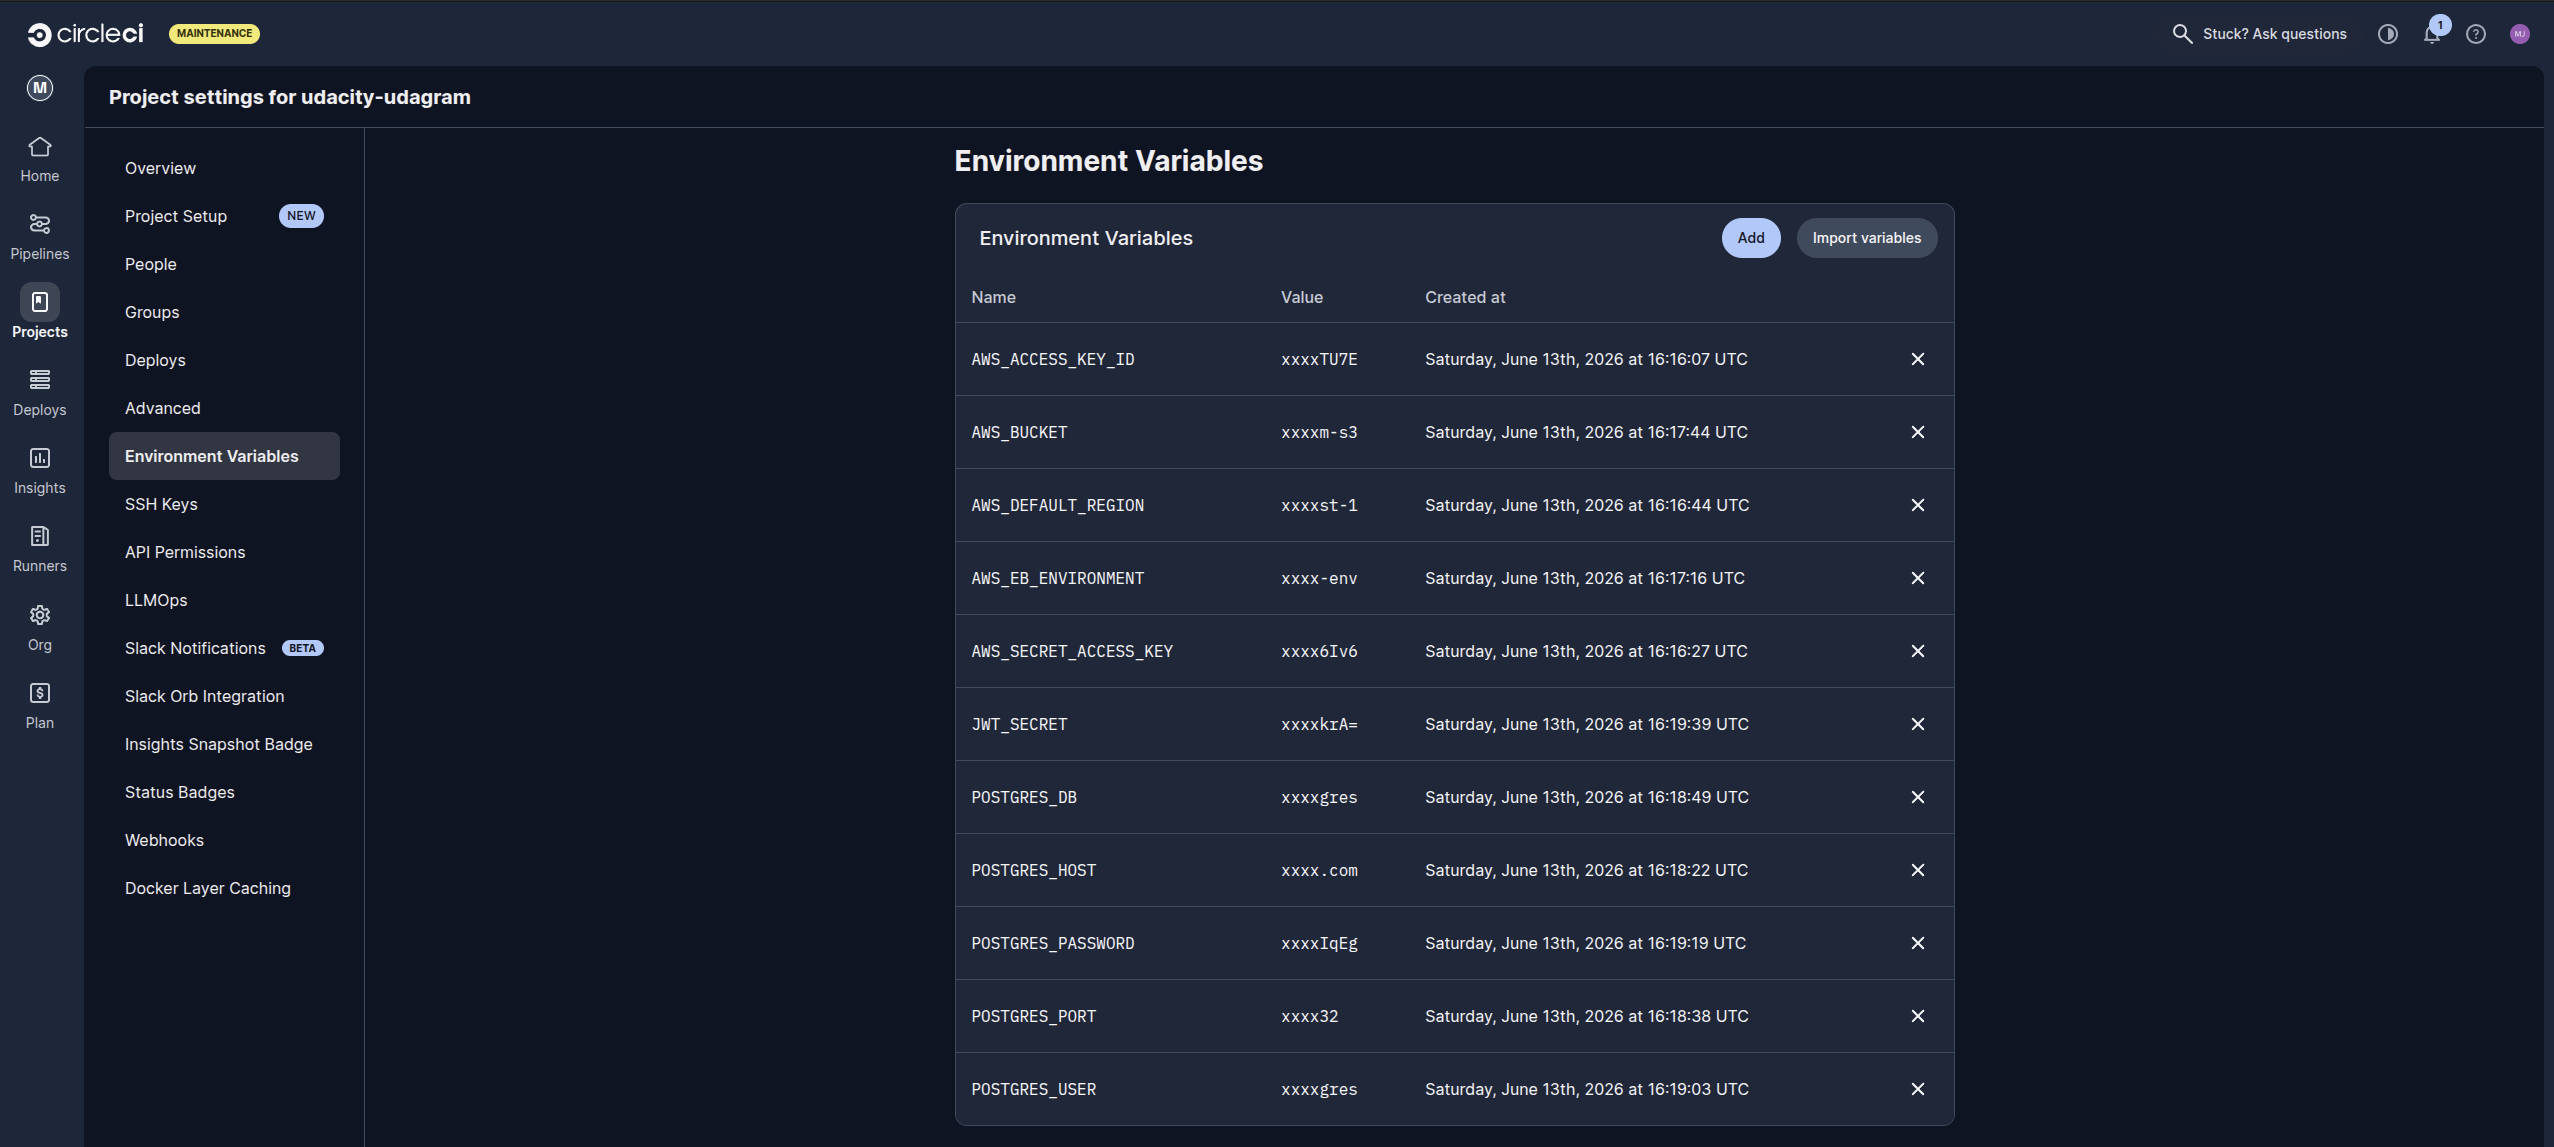
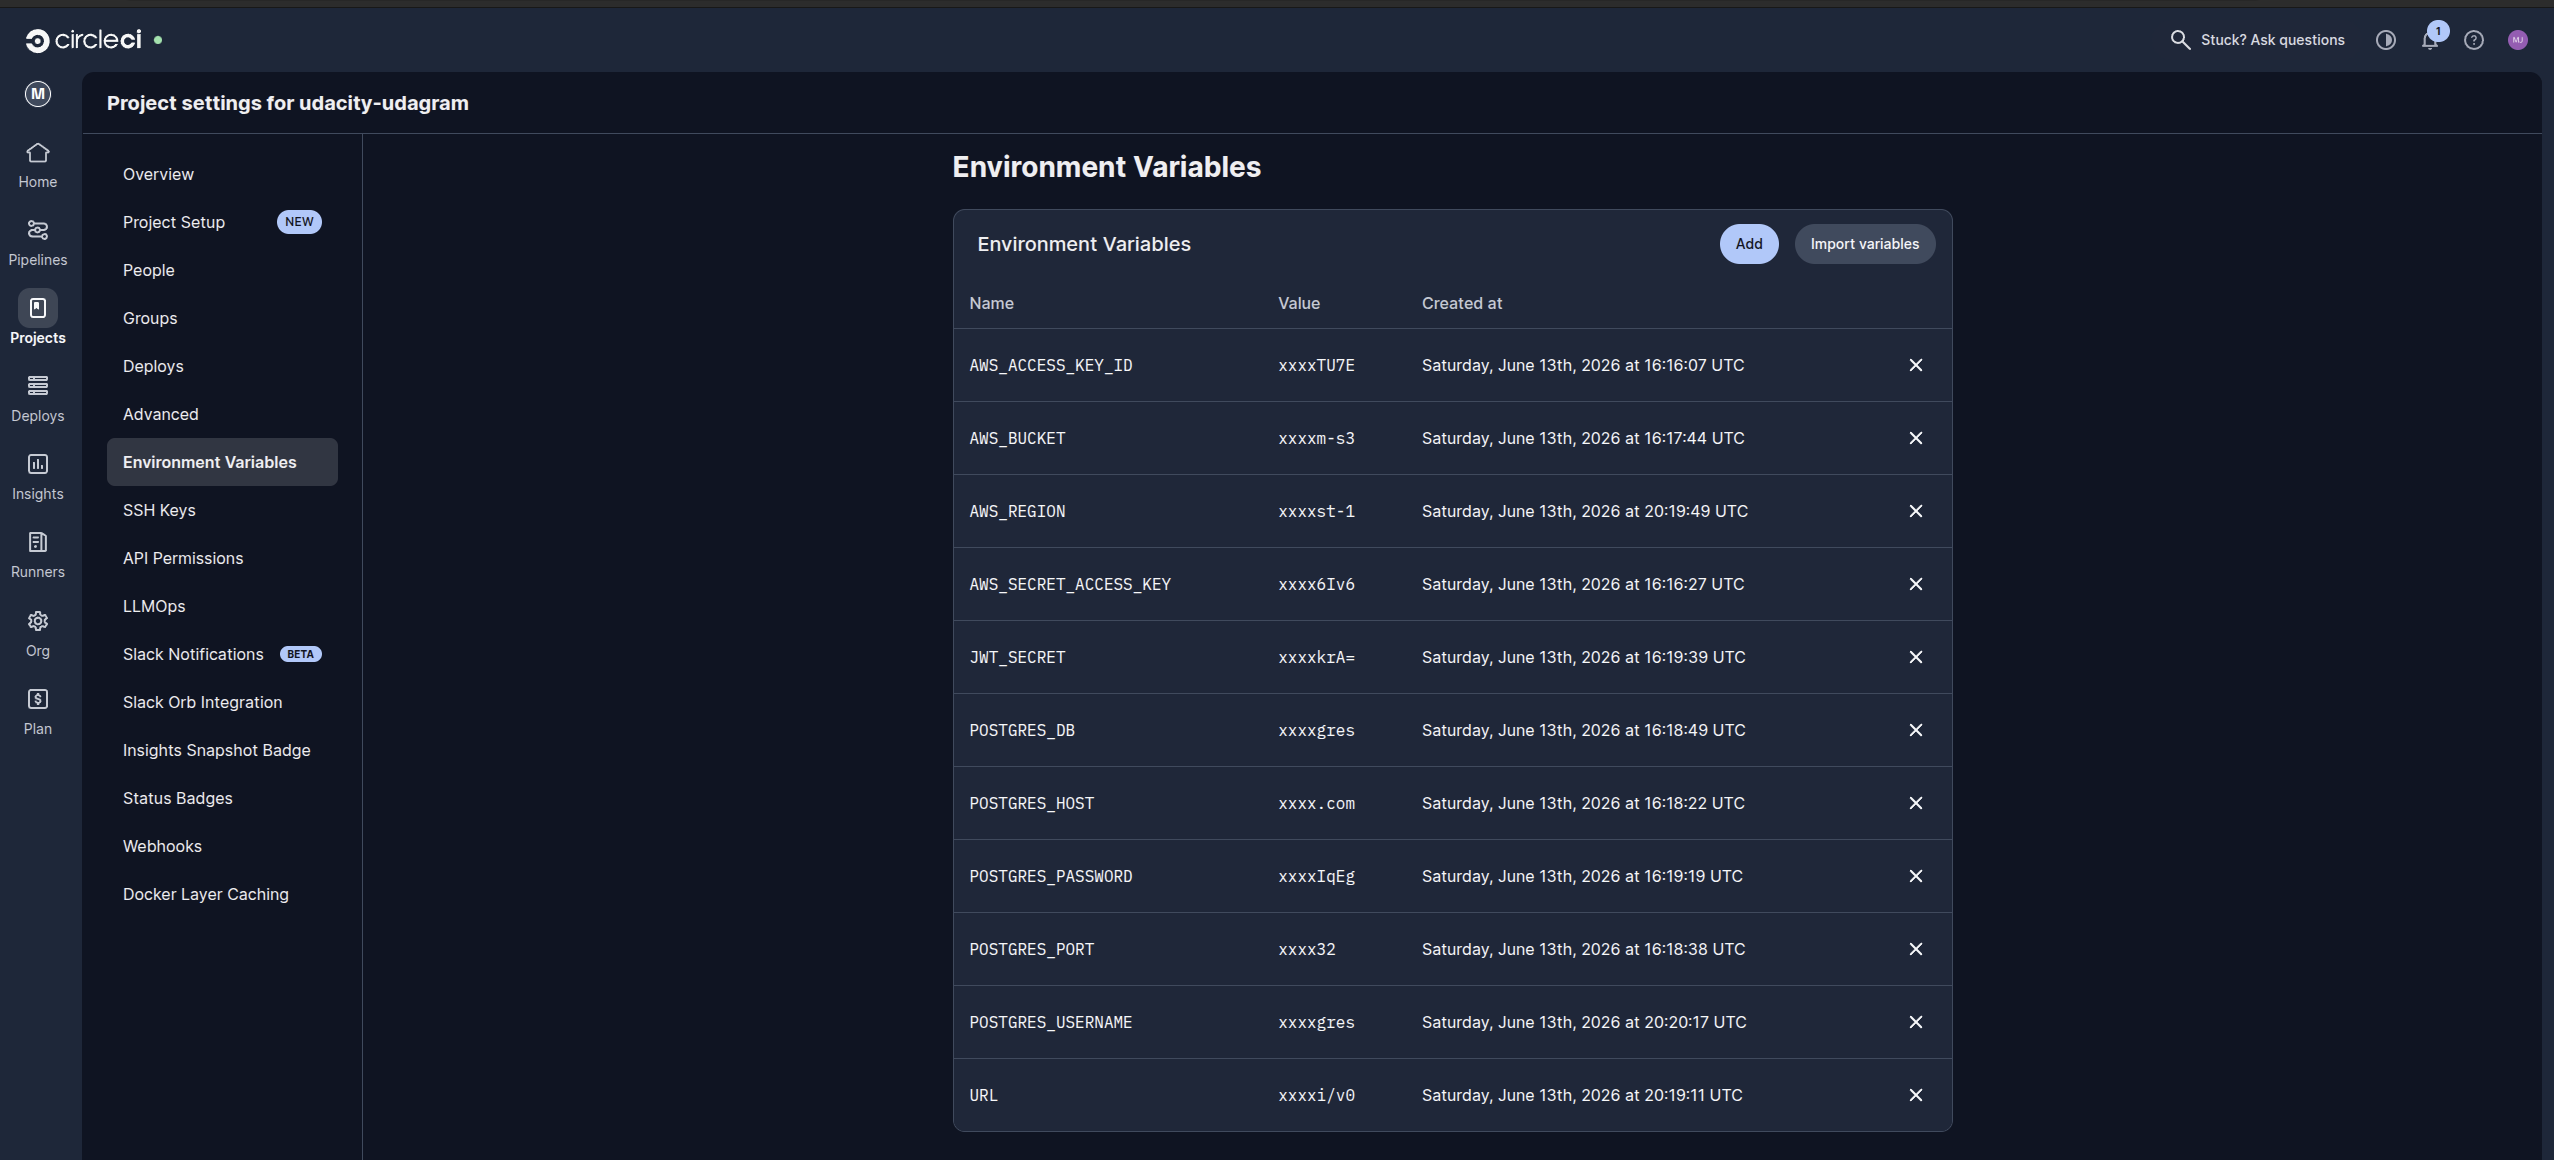
feat: add AWS region configuration check in CircleCI and update documentation for environment variables

diff --git a/docs/Pipeline_description.md b/docs/Pipeline_description.md
@@ -53,6 +53,8 @@ Required CircleCI project environment variables:
 
 Do not use `POSTGRES_USER` or `AWS_DEFAULT_REGION` as the project variable names for this application. The backend configuration expects `POSTGRES_USERNAME` and `AWS_REGION`, so CircleCI and Elastic Beanstalk must use those exact names.
 
+The CircleCI AWS and Elastic Beanstalk tooling expects `AWS_DEFAULT_REGION` internally. The deploy job derives that value from `AWS_REGION` at runtime, so `AWS_DEFAULT_REGION` does not need to be stored as a separate CircleCI project secret.
+
 The deploy job passes these backend runtime values to Elastic Beanstalk:
 
 ```bash